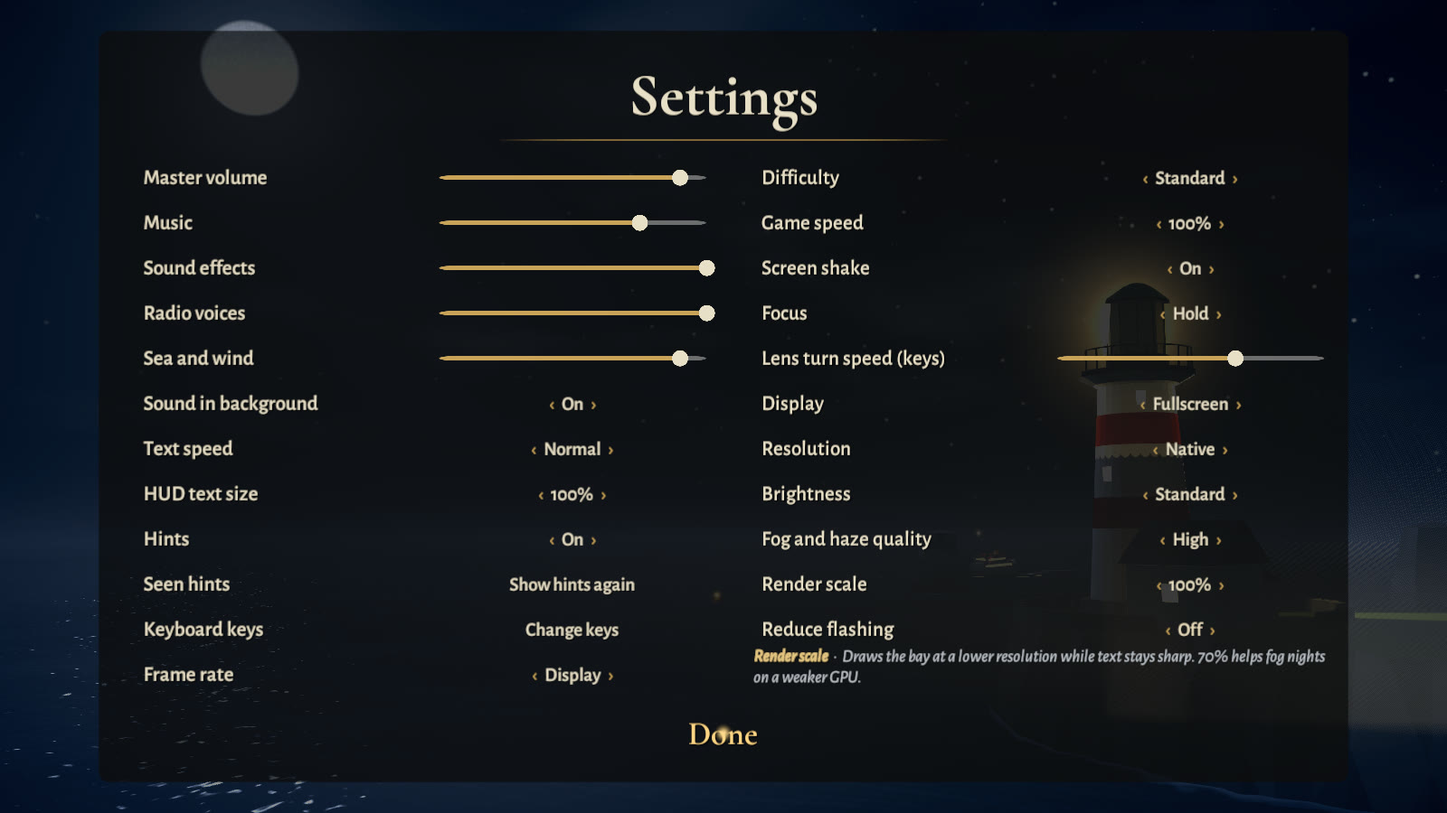
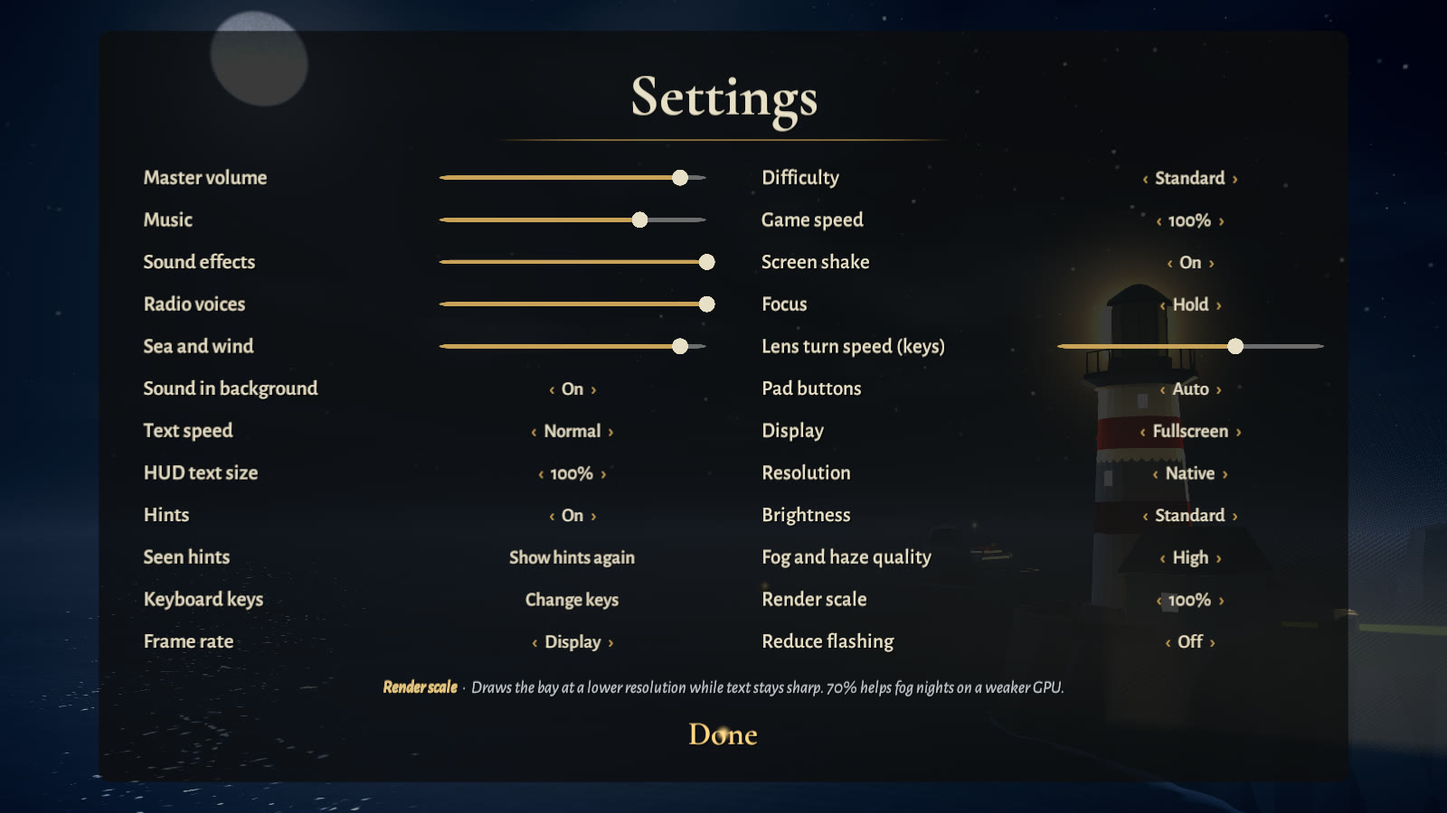
Settings ▸ Pad buttons: Auto, Xbox, PlayStation or Nintendo names in every pad prompt
The title strip, hints, the briefing's prompt and new-idea card, the pause card, the HUD's horn
key, the keeper's notes and the ending's prompt name the buttons as the keeper's pad labels them
(Cross, Circle, R2, Options; or B, A, ZR, + by position). Auto guesses from the pad's name and
falls back to Xbox. Settings rows sit 56 units apart to make room, and the settings description
runs across the panel under both columns. The title strip refreshes whenever the title shows.

diff --git a/Assets/Scripts/UI/MoreScreens.cs b/Assets/Scripts/UI/MoreScreens.cs
@@ -18,6 +18,7 @@ namespace LastLight.UI
 
         /// <summary>The "new tonight" card's words as shown; for tours.</summary>
         public string NewThingShown => newText.text;
+        public string PromptShown => prompt.text;
         Image newIcon;
         RectTransform card, newCard;
         string full = "";
@@ -94,7 +95,7 @@ namespace LastLight.UI
             };
         }
 
-        static string PromptText() => InputMode.Pick("click, or press Space     ·     Esc to go back", "press A     ·     B to go back");
+        static string PromptText() => InputMode.Pick("click, or press Space     ·     Esc to go back", $"press {PadButtons.South}     ·     {PadButtons.East} to go back");
 
         /// <summary>The line under the title (the date, or a watch's records); for tours.</summary>
         public string DateLine => date.text;
@@ -103,7 +104,7 @@ namespace LastLight.UI
         static readonly Dictionary<string, string> PadNewThings = new Dictionary<string, string>
         {
             ["aim"] = "Point the right stick to turn the light.",
-            ["fog"] = "Fog swallows the light. Hold RT to focus, A for the horn.",
+            ["fog"] = "Fog swallows the light. Hold {RT} to focus, {A} for the horn.",
         };
 
         static string NewText(string id, string keys)
@@ -111,8 +112,8 @@ namespace LastLight.UI
             string horn = SaveData.Current.keys.First(KeeperAction.Horn);
             if (horn == "") horn = "right-click";
             if (id == "fog" && SaveData.Current.focusToggle)
-                return InputMode.Pick($"Fog swallows the light. Click to focus, {horn} for the horn.", "Fog swallows the light. Press RT to focus, A for the horn.");
-            return InputMode.Pad && PadNewThings.TryGetValue(id, out var pad) ? pad : keys.Replace("{horn}", horn);
+                return InputMode.Pick($"Fog swallows the light. Click to focus, {horn} for the horn.", $"Fog swallows the light. Press {PadButtons.RightTrigger} to focus, {PadButtons.South} for the horn.");
+            return InputMode.Pad && PadNewThings.TryGetValue(id, out var pad) ? pad.Replace("{RT}", PadButtons.RightTrigger).Replace("{A}", PadButtons.South) : keys.Replace("{horn}", horn);
         }
 
         static readonly Dictionary<string, (string title, string text, string icon)> NewThings = new Dictionary<string, (string, string, string)>
@@ -160,6 +161,7 @@ namespace LastLight.UI
                 newCard.gameObject.SetActive(true);
                 newTitle.text = UiKit.Spaced(n.title);
                 newText.text = NewText(def.newThing, n.text);
+                prompt.text = PromptText();   // Settings ▸ Pad buttons may have changed
                 SetNewIcon(n.icon);
             }
             else newCard.gameObject.SetActive(false);
@@ -334,7 +336,7 @@ namespace LastLight.UI
             void Row(string label, Component control, string about)
             {
                 // Label and control share a centre line.
-                float y = -196 - row * 60;
+                float y = -196 - row * 56;
                 var l = Label(panel, label, UiKit.BodyMedium, 28, UiKit.Paper, TextAnchor.MiddleLeft, new Vector2(0.5f, 1), new Vector2(column - 170, y), new Vector2(380, 50));
                 l.rectTransform.pivot = new Vector2(0.5f, 0.5f);
                 l.Shadowed();
@@ -393,6 +395,8 @@ namespace LastLight.UI
                 "Hold: the beam is focused while the button is held. Toggle: press once to focus, again to widen.");
             Row("Lens turn speed (keys)", UiSlider.Create(panel, Mathf.InverseLerp(0.5f, 1.25f, save.turnSpeed), v => save.turnSpeed = Mathf.Lerp(0.5f, 1.25f, v)),
                 "How fast the keys turn the lens. The mouse and the sticks point it directly.");
+            Row("Pad buttons", UiStepper.Create(panel, PadButtons.Choices, Mathf.Clamp(save.padStyle, 0, 3), i => { save.padStyle = i; OnFocusMode?.Invoke(); }),
+                "The names prompts give the gamepad's buttons. Auto goes by the pad's name. Nintendo goes by position: the bottom button is B.");
             Row("Display", UiStepper.Create(panel, new[] { "Windowed", "Fullscreen" }, save.fullscreen ? 1 : 0, i => { save.fullscreen = i == 1; save.Apply(); }),
                 "In a window, or filling the screen.");
             var sizes = Resolutions();
@@ -414,8 +418,8 @@ namespace LastLight.UI
             ((RectTransform)back.transform).Pin(new Vector2(0.5f, 0), new Vector2(0.5f, 0), new Vector2(0, 36), new Vector2(300, 60));
             order.Add(back);
             // What the chosen setting does, in the space under the right-hand column.
-            // Between the right column's last row (Reduce flashing, centred at -796) and Done: two lines.
-            about = Label(panel, "", UiKit.Italic, 23, new Color(0.78f, 0.8f, 0.83f), TextAnchor.UpperLeft, new Vector2(0.5f, 1), new Vector2(430, -852), new Vector2(780, 62));
+            // Between the last rows (both columns end at -812) and Done (from -904): two lines across the panel.
+            about = Label(panel, "", UiKit.Italic, 23, new Color(0.78f, 0.8f, 0.83f), TextAnchor.MiddleCenter, new Vector2(0.5f, 1), new Vector2(0, -873), new Vector2(1440, 56));
             about.rectTransform.pivot = new Vector2(0.5f, 0.5f);
             about.lineSpacing = 1f;
             about.Shadowed(0.7f, 1.5f);

diff --git a/Assets/Scripts/Automation/TourScripts.cs b/Assets/Scripts/Automation/TourScripts.cs
@@ -591,9 +591,9 @@ namespace LastLight.Automation
             var sel = es.currentSelectedGameObject;
             bool rightColumn = sel != null && ((RectTransform)sel.transform).anchoredPosition.x > 0f;
             yield return t.Shot("input_settings_about_pad");
-            for (int i = 0; i < 11; i++)
+            for (int i = 0; i < 12; i++)
             {
-                yield return PadPress(pad2, GamepadButton.DpadDown);   // eleven rows on the right since Brightness
+                yield return PadPress(pad2, GamepadButton.DpadDown);   // twelve rows on the right since Pad buttons
                 walked.Add(settings.AboutShown ?? "nothing");
             }
             string last = Selected();
@@ -645,6 +645,51 @@ namespace LastLight.Automation
                 if (WorldRect(settings.RowControl(name)).Overlaps(aboutRect)) covers.Add(name);
             }
             t.Log($"{(covers.Count == 0 ? "PASS" : "FAIL")} the description's box covers no row and not Done{(covers.Count > 0 ? ": " + string.Join(", ", covers) : "")}");
+
+            // ---- Settings ▸ Pad buttons: the stepper sets the names, and every pad prompt uses them.
+            var pad3 = InputSystem.AddDevice<Gamepad>("TourPad3");
+            yield return null;
+            int styleBefore = SaveData.Current.padStyle;
+            es.SetSelectedGameObject(settings.RowControl("Pad buttons").gameObject);
+            yield return PadPress(pad3, GamepadButton.DpadRight);
+            yield return PadPress(pad3, GamepadButton.DpadRight);
+            int styleAfter = SaveData.Current.padStyle;
+            t.Log($"{(styleBefore == 0 && styleAfter == (int)PadStyle.PlayStation && settings.AboutShown == "Pad buttons" ? "PASS" : "FAIL")} Pad buttons starts on Auto ({PadButtons.Choices[styleBefore]}, which reads {PadButtons.Detect(pad3)} for a pad called {pad3.name}), and right twice on the pad chooses {PadButtons.Choices[styleAfter]}");
+            var titleScreen = (TitleScreen)g.TourScreen("title");
+            var briefing = (BriefingScreen)g.TourScreen("briefing");
+            foreach (var style in new[] { PadStyle.PlayStation, PadStyle.Nintendo, PadStyle.Xbox })
+            {
+                SaveData.Current.padStyle = (int)style;
+                var (south, east, trigger, start) = PadButtons.For(style);
+                InputMode.Set(true);
+                g.TourHideAll();
+                g.TourTitle();
+                yield return Tour.Wait(1f);
+                string footer = titleScreen.FooterShown;
+                var hint = Feedback.TourHint("horn");
+                var focusHint = Feedback.TourHint("focus");
+                g.TourBriefing(5);
+                yield return Tour.Wait(2.5f);
+                string prompt = briefing.PromptShown, card = briefing.NewThingShown;
+                if (style == PadStyle.PlayStation) yield return t.Shot("input_pad_buttons_playstation_briefing");
+                g.TourBegin();
+                yield return Tour.Wait(1.5f);
+                g.TourPause();
+                yield return Tour.Wait(1f);
+                string pauseCard = g.TourPauseControls, hornKey = g.Hud.HornKeyShown;
+                if (style == PadStyle.Nintendo) yield return t.Shot("input_pad_buttons_nintendo_pause");
+                g.TourResume();
+                bool ok = footer.Contains($"{south}  foghorn") && footer.Contains($"{start}  pause") && footer.Contains(trigger)
+                    && hint.text.Contains($"Press {south} ") && hint.icon == south && focusHint.icon == trigger
+                    && prompt.Contains($"press {south} ") && prompt.Contains($"{east} to go back")
+                    && card.Contains($"{trigger} to focus, {south} for the horn")
+                    && pauseCard.Contains($">{south}<") && pauseCard.Contains($">{start}<") && pauseCard.Contains($"{east}  back")
+                    && hornKey == south.ToUpperInvariant();
+                t.Log($"{(ok ? "PASS" : "FAIL")} {style}: the title strip, the horn and focus hints, the briefing's prompt and fog card, the pause card and the HUD's horn key name {south}, {east}, {trigger} and {start}");
+                if (!ok) t.Log($"  strip \"{footer}\" | hint \"{hint.text}\" [{hint.icon}] focus [{focusHint.icon}] | prompt \"{prompt}\" | card \"{card}\" | pause \"{pauseCard.Replace("\n", " / ")}\" | horn {hornKey}");
+            }
+            SaveData.Current.padStyle = 0;
+            InputSystem.RemoveDevice(pad3);
             g.TourHideAll();
         }
 

diff --git a/Assets/Scripts/Core/Feedback.cs b/Assets/Scripts/Core/Feedback.cs
@@ -123,11 +123,11 @@ namespace LastLight.Core
             ["aim"] = ("Move the mouse to turn the light.", "mouse", "Point the right stick to turn the light.", "RS"),
             ["ships"] = ("Ships lose their nerve in the dark. Keep them in your light.", "ring", null, null),
             ["chart"] = ("Sweep the light ahead of a ship to chart the hidden reefs.", "ring", null, null),
-            ["focus"] = ("Hold the left button to focus: a narrow beam that reaches further.", "lmb", "Hold the right trigger to focus: a narrow beam that reaches further.", "RT"),
+            ["focus"] = ("Hold the left button to focus: a narrow beam that reaches further.", "lmb", "Hold the right trigger to focus: a narrow beam that reaches further.", "{RT}"),
             ["buoy"] = ("Sweep the light over a buoy to light it. It guides ships for a while.", "lamp", null, null),
-            ["horn"] = ("Fog! Press SPACE to sound the foghorn.", "SPACE", "Fog! Press A to sound the foghorn.", "A"),
+            ["horn"] = ("Fog! Press SPACE to sound the foghorn.", "SPACE", "Fog! Press {A} to sound the foghorn.", "{A}"),
             ["flare"] = ("A ship with no lamps. Watch for its flares.", "ring", null, null),
-            ["douse"] = ("A false light! Hold your beam on its lantern to douse it.", "lmb", "A false light! Hold your beam on its lantern to douse it.", "RT"),
+            ["douse"] = ("A false light! Hold your beam on its lantern to douse it.", "lmb", "A false light! Hold your beam on its lantern to douse it.", "{RT}"),
             ["shoal"] = ("Steamers run aground on sandbanks. Light the sands to chart them.", "ring", null, null),
             ["storm"] = ("The storm pushes ships towards the rocks. Lightning reveals them.", "ring", null, null),
             ["breakers"] = ("Breakers ahead! A flickering ring means rock in that ship's path. Light the water in front of it.", "ring", null, null),
@@ -136,7 +136,7 @@ namespace LastLight.Core
         static (string text, string icon) HintFor(string id)
         {
             if (id == "focus" && SaveData.Current.focusToggle)
-                return InputMode.Pad ? ("Press the right trigger to focus: a narrow beam that reaches further. Press again to widen it.", "RT")
+                return InputMode.Pad ? ("Press the right trigger to focus: a narrow beam that reaches further. Press again to widen it.", PadButtons.RightTrigger)
                     : ("Click the left button to focus: a narrow beam that reaches further. Click again to widen it.", "lmb");
             var h = HintText[id];
             if (id == "horn" && !InputMode.Pad)
@@ -145,8 +145,14 @@ namespace LastLight.Core
                 string key = SaveData.Current.keys.First(KeeperAction.Horn);
                 return key == "" ? ("Fog! Click the right button to sound the foghorn.", "rmb") : ($"Fog! Press {key.ToUpperInvariant()} to sound the foghorn.", key.ToUpperInvariant());
             }
-            return InputMode.Pad && h.padText != null ? (h.padText, h.padIcon) : (h.text, h.icon);
+            return InputMode.Pad && h.padText != null ? (PadWords(h.padText), PadWords(h.padIcon)) : (h.text, h.icon);
         }
+
+        /// <summary>A hint's words and icon as they'd show now; for tours.</summary>
+        public static (string text, string icon) TourHint(string id) => HintFor(id);
+
+        /// <summary>The pad's button names as the keeper's pad labels them.</summary>
+        static string PadWords(string s) => s?.Replace("{A}", PadButtons.South).Replace("{RT}", PadButtons.RightTrigger);
 
         /// <summary>Each hint shows once per save (Settings can bring them all back).</summary>
         void ShowHint(string id)

diff --git a/Assets/Scripts/Core/PadButtons.cs b/Assets/Scripts/Core/PadButtons.cs
@@ -1,0 +1,61 @@
+using System;
+using UnityEngine.InputSystem;
+
+namespace LastLight.Core
+{
+    /// <summary>Whose names the gamepad's buttons go by in prompts.</summary>
+    public enum PadStyle { Auto, Xbox, PlayStation, Nintendo }
+
+    /// <summary>
+    /// The pad's buttons as the keeper's pad labels them. Settings ▸ Pad buttons chooses Xbox (A, B,
+    /// RT, Start), PlayStation (Cross, Circle, R2, Options) or Nintendo (B, A, ZR, +; by position, so
+    /// the bottom button is B), or Auto, which goes by the pad's name where Unity reports one.
+    /// </summary>
+    public static class PadButtons
+    {
+        /// <summary>The style in use: the keeper's choice, or the pad in hand's on Auto.</summary>
+        public static PadStyle Style => StyleFor(SaveData.Current);
+
+        public static PadStyle StyleFor(SaveData save)
+        {
+            var chosen = (PadStyle)UnityEngine.Mathf.Clamp(save.padStyle, 0, 3);
+            return chosen != PadStyle.Auto ? chosen : Detect(Gamepad.current);
+        }
+
+        /// <summary>A guess from the pad's layout and names: Sony's pads read PlayStation, Nintendo's
+        /// Nintendo, anything else Xbox (the usual layout on PC, and Steam Input's).</summary>
+        public static PadStyle Detect(Gamepad pad)
+        {
+            if (pad == null) return PadStyle.Xbox;
+            if (pad is UnityEngine.InputSystem.DualShock.DualShockGamepad) return PadStyle.PlayStation;
+            return Detect(pad.name, pad.displayName, pad.description.product, pad.description.manufacturer, pad.layout);
+        }
+
+        public static PadStyle Detect(params string[] names)
+        {
+            string all = string.Join(" ", names ?? Array.Empty<string>()).ToLowerInvariant();
+            // Microsoft's pads are "Wireless Controller"s too.
+            foreach (var n in new[] { "xbox", "x-box", "microsoft" })
+                if (all.Contains(n)) return PadStyle.Xbox;
+            foreach (var n in new[] { "dualsense", "dualshock", "playstation", "sony", "ps4", "ps5", "wireless controller" })
+                if (all.Contains(n)) return PadStyle.PlayStation;
+            foreach (var n in new[] { "nintendo", "switch", "pro controller", "joy-con", "joycon" })
+                if (all.Contains(n)) return PadStyle.Nintendo;
+            return PadStyle.Xbox;
+        }
+
+        public static string South => For(Style).south;
+        public static string East => For(Style).east;
+        public static string RightTrigger => For(Style).trigger;
+        public static string Start => For(Style).start;
+
+        public static (string south, string east, string trigger, string start) For(PadStyle style) => style switch
+        {
+            PadStyle.PlayStation => ("Cross", "Circle", "R2", "Options"),
+            PadStyle.Nintendo => ("B", "A", "ZR", "+"),
+            _ => ("A", "B", "RT", "Start"),
+        };
+
+        public static readonly string[] Choices = { "Auto", "Xbox", "PlayStation", "Nintendo" };
+    }
+}

diff --git a/Assets/Tests/EditMode/PadButtonsTests.cs b/Assets/Tests/EditMode/PadButtonsTests.cs
@@ -1,0 +1,51 @@
+using System.Linq;
+using LastLight.Core;
+using NUnit.Framework;
+
+namespace LastLight.Tests
+{
+    /// <summary>Settings ▸ Pad buttons: each style's names, the guess Auto makes from a pad's name,
+    /// and the keeper's notes in those names. Works on its own SaveData, never the save.</summary>
+    public class PadButtonsTests
+    {
+        [Test]
+        public void EachStyleNamesItsButtons()
+        {
+            Assert.AreEqual(("A", "B", "RT", "Start"), PadButtons.For(PadStyle.Xbox));
+            Assert.AreEqual(("Cross", "Circle", "R2", "Options"), PadButtons.For(PadStyle.PlayStation));
+            // Nintendo by position: the bottom button (the one Xbox calls A) is B.
+            Assert.AreEqual(("B", "A", "ZR", "+"), PadButtons.For(PadStyle.Nintendo));
+            Assert.AreEqual(("A", "B", "RT", "Start"), PadButtons.For(PadStyle.Auto), "Auto with no pad reads as Xbox");
+        }
+
+        [TestCase("Sony Interactive Entertainment Wireless Controller", PadStyle.PlayStation)]
+        [TestCase("DualSense Wireless Controller", PadStyle.PlayStation)]
+        [TestCase("PS4 Controller", PadStyle.PlayStation)]
+        [TestCase("Nintendo Switch Pro Controller", PadStyle.Nintendo)]
+        [TestCase("Pro Controller", PadStyle.Nintendo)]
+        [TestCase("Xbox Wireless Controller", PadStyle.Xbox)]
+        [TestCase("Microsoft X-Box 360 pad", PadStyle.Xbox)]
+        [TestCase("8BitDo Ultimate 2C Wireless", PadStyle.Xbox)]
+        [TestCase("", PadStyle.Xbox)]
+        public void AutoGuessesFromThePadsName(string product, PadStyle expected)
+        {
+            Assert.AreEqual(expected, PadButtons.Detect("Gamepad", product));
+        }
+
+        [Test]
+        public void TheNotesUseTheChosenNames()
+        {
+            string Body(SaveData s, string id, bool pad = true) => KeeperNotes.For(s, pad).First(e => e.Id == id).Body;
+            var save = new SaveData { unlocked = 12, padStyle = (int)PadStyle.PlayStation };
+            StringAssert.Contains("Press Cross to sound the foghorn", Body(save, "fog"));
+            StringAssert.Contains("Options pauses", Body(save, "light"));
+            save.padStyle = (int)PadStyle.Nintendo;
+            StringAssert.Contains("Press B to sound the foghorn", Body(save, "fog"));
+            StringAssert.Contains("+ pauses", Body(save, "light"));
+            save.padStyle = (int)PadStyle.Xbox;
+            StringAssert.Contains("Press A to sound the foghorn", Body(save, "fog"));
+            StringAssert.Contains("Start pauses", Body(save, "light"));
+            StringAssert.Contains("Esc pauses", Body(save, "light", pad: false), "the mouse and keys keep their words");
+        }
+    }
+}

diff --git a/Assets/Scripts/UI/Screens.cs b/Assets/Scripts/UI/Screens.cs
@@ -180,10 +180,10 @@ namespace LastLight.UI
             return SaveData.Current.focusToggle
                 ? InputMode.Pick(
                     $"Mouse  turn the light     ·     Left button  focus on and off     ·     {horn}  foghorn     ·     Esc  pause",
-                    "Right stick  turn the light     ·     RT  focus on and off     ·     A  foghorn     ·     Start  pause")
+                    $"Right stick  turn the light     ·     {PadButtons.RightTrigger}  focus on and off     ·     {PadButtons.South}  foghorn     ·     {PadButtons.Start}  pause")
                 : InputMode.Pick(
                     $"Mouse  turn the light     ·     Hold left button  focus     ·     {horn}  foghorn     ·     Esc  pause",
-                    "Right stick  turn the light     ·     Hold RT  focus     ·     A  foghorn     ·     Start  pause");
+                    $"Right stick  turn the light     ·     Hold {PadButtons.RightTrigger}  focus     ·     {PadButtons.South}  foghorn     ·     {PadButtons.Start}  pause");
         }
 
         /// <summary>The control strip as shown; for tours.</summary>
@@ -630,7 +630,7 @@ namespace LastLight.UI
             string turn = bound.TurnPair(), focus = bound.First(KeeperAction.Focus), horn = bound.First(KeeperAction.Horn);
             string focusKeys = (toggle ? "Left button" : "Hold left button") + (focus != "" ? " or " + focus : "");
             var lines = InputMode.Pad
-                ? new[] { Line("Right stick", "turn the light"), Line(toggle ? "RT" : "Hold RT", toggle ? "focus on and off" : "focus"), Line("A", "foghorn"), Line("Start", "pause  ·  B  back") }
+                ? new[] { Line("Right stick", "turn the light"), Line(toggle ? PadButtons.RightTrigger : "Hold " + PadButtons.RightTrigger, toggle ? "focus on and off" : "focus"), Line(PadButtons.South, "foghorn"), Line(PadButtons.Start, $"pause  ·  {PadButtons.East}  back") }
                 : new[] { Line(turn != "" ? "Mouse, or " + turn : "Mouse", "turn the light"), Line(focusKeys, toggle ? "focus on and off" : "focus"), Line(horn != "" ? horn + " or right button" : "Right button", "foghorn"), Line("Esc", "pause") };
             return string.Join("\n", lines);
         }

diff --git a/Assets/Scripts/Core/KeeperNotes.cs b/Assets/Scripts/Core/KeeperNotes.cs
@@ -34,6 +34,7 @@ namespace LastLight.Core
         {
             bool hard = save.difficulty == 1, toggle = save.focusToggle;
             var keys = save.keys ?? new KeyBindings();
+            var buttons = PadButtons.For(PadButtons.StyleFor(save));
             string turnKeys = keys.TurnPair(), focusKey = keys.First(KeeperAction.Focus), hornKey = keys.First(KeeperAction.Horn);
             string turn = pad ? "Point the right stick to turn the light."
                 : turnKeys != "" ? $"Move the mouse to turn the light, or use {turnKeys}." : "Move the mouse to turn the light.";
@@ -41,8 +42,8 @@ namespace LastLight.Core
                 ? (toggle ? "Press the right trigger to focus, and again to widen the beam." : "Hold the right trigger to focus.")
                 : (toggle ? "Click the left button" + (focusKey != "" ? $" or press {focusKey}" : "") + " to focus, and again to widen the beam."
                           : "Hold the left button" + (focusKey != "" ? $" or {focusKey}" : "") + " to focus.");
-            string horn = pad ? "Press A" : hornKey != "" ? $"Press {hornKey} or click the right button" : "Click the right button";
-            string pause = pad ? "Start" : "Esc";
+            string horn = pad ? $"Press {buttons.south}" : hornKey != "" ? $"Press {hornKey} or click the right button" : "Click the right button";
+            string pause = pad ? buttons.start : "Esc";
             int chart = hard ? 15 : 22, buoy = hard ? 20 : 28;
 
             return new List<Entry>

diff --git a/Assets/Scripts/UI/Hud.cs b/Assets/Scripts/UI/Hud.cs
@@ -197,7 +197,7 @@ namespace LastLight.UI
         static string HornKeyText()
         {
             string key = SaveData.Current.keys.First(KeeperAction.Horn);
-            return InputMode.Pick(key != "" ? key.ToUpperInvariant() : "RIGHT CLICK", "A");
+            return InputMode.Pick(key != "" ? key.ToUpperInvariant() : "RIGHT CLICK", PadButtons.South.ToUpperInvariant());
         }
 
         /// <summary>For the tours: the key shown under the horn's gauge.</summary>
@@ -620,6 +620,8 @@ namespace LastLight.UI
             float dt = Unscaled.Delta;
             UpdateRadio(dt);
             UpdateMarkers(dt);
+            // The horn's key follows Settings ▸ Pad buttons, and a pad of another make picked up mid-night.
+            if (InputMode.Pad && Time.frameCount % 20 == 0) { string k = HornKeyText(); if (hornKey.text != k) hornKey.text = k; }
             if (runner == null || runner.World == null) { UpdateNames(dt); return; }
             var w = runner.World;
 

diff --git a/Assets/Scripts/Core/SaveData.cs b/Assets/Scripts/Core/SaveData.cs
@@ -50,6 +50,7 @@ namespace LastLight.Core
         public float gameSpeed = 1f;             // an assist: the simulation at 1, 0.85 or 0.7 of full speed
         public Difficulty Difficulty => difficulty == 1 ? Difficulty.Hard : Difficulty.Standard;
         public bool focusToggle;                 // focus: hold the button (false) or press to switch it on and off
+        public int padStyle;                     // the pad's button names: 0 Auto, 1 Xbox, 2 PlayStation, 3 Nintendo (see PadButtons)
         public KeyBindings keys = new KeyBindings();   // the keyboard's keys for turning, focus and the horn
         public bool shake = true;
         public float textSpeed = 1f;             // multiplier

diff --git a/Assets/Scripts/Core/Game.cs b/Assets/Scripts/Core/Game.cs
@@ -244,6 +244,7 @@ namespace LastLight.Core
             title.SetBeginLabel(save.unlocked > 1 || save.lamps[0] > 0 ? $"Continue: night {UiKit.Roman(save.unlocked)}" : "Begin the watch");
             title.SetWatchUnlocked(save.WatchUnlocked);
             title.SetNotice(SaveData.Trouble);
+            title.RefreshFooter();   // the keys, Focus or Pad buttons may have changed
             title.Show();
             Music.PlayTrack("music_title", 3f);
             ShaderGlobals.DawnAmount = 0f;

diff --git a/Assets/Scripts/Core/Ending.cs b/Assets/Scripts/Core/Ending.cs
@@ -63,7 +63,7 @@ namespace LastLight.Core
             }
         }
 
-        static string PromptText() => InputMode.Pick("Hold the left button, or Space, to put out the light", "Hold A to put out the light");
+        static string PromptText() => InputMode.Pick("Hold the left button, or Space, to put out the light", $"Hold {PadButtons.South} to put out the light");
 
         void Build()
         {
